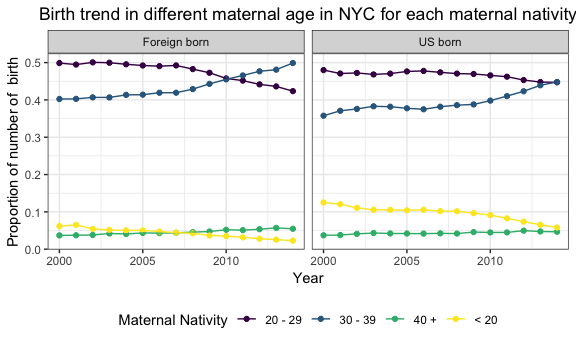
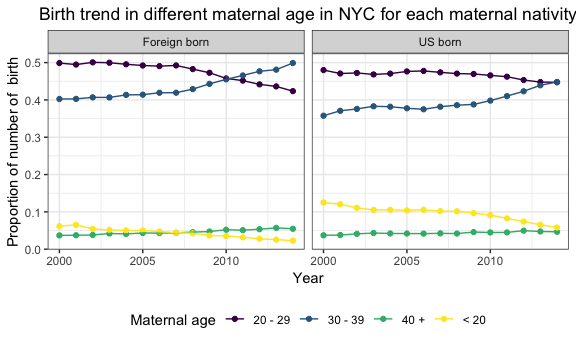
modify for the plot

Changed region(s): [[0.1875, 0.8986, 0.875, 0.9565]]

diff --git a/birth_data_xy2397.md b/birth_data_xy2397.md
@@ -547,7 +547,7 @@ birth_nat_age_plot_data %>%
   labs(title = "Birth trend in different maternal age in NYC for each maternal nativity",
       y = "Proportion of number of  birth",
       x = "Year",
-      color = "Maternal Nativity") +
+      color = "Maternal age") +
   theme_bw() +
   scale_x_continuous(breaks=seq(2000, 2014, 5)) +
   viridis::scale_color_viridis(discrete = TRUE) +
